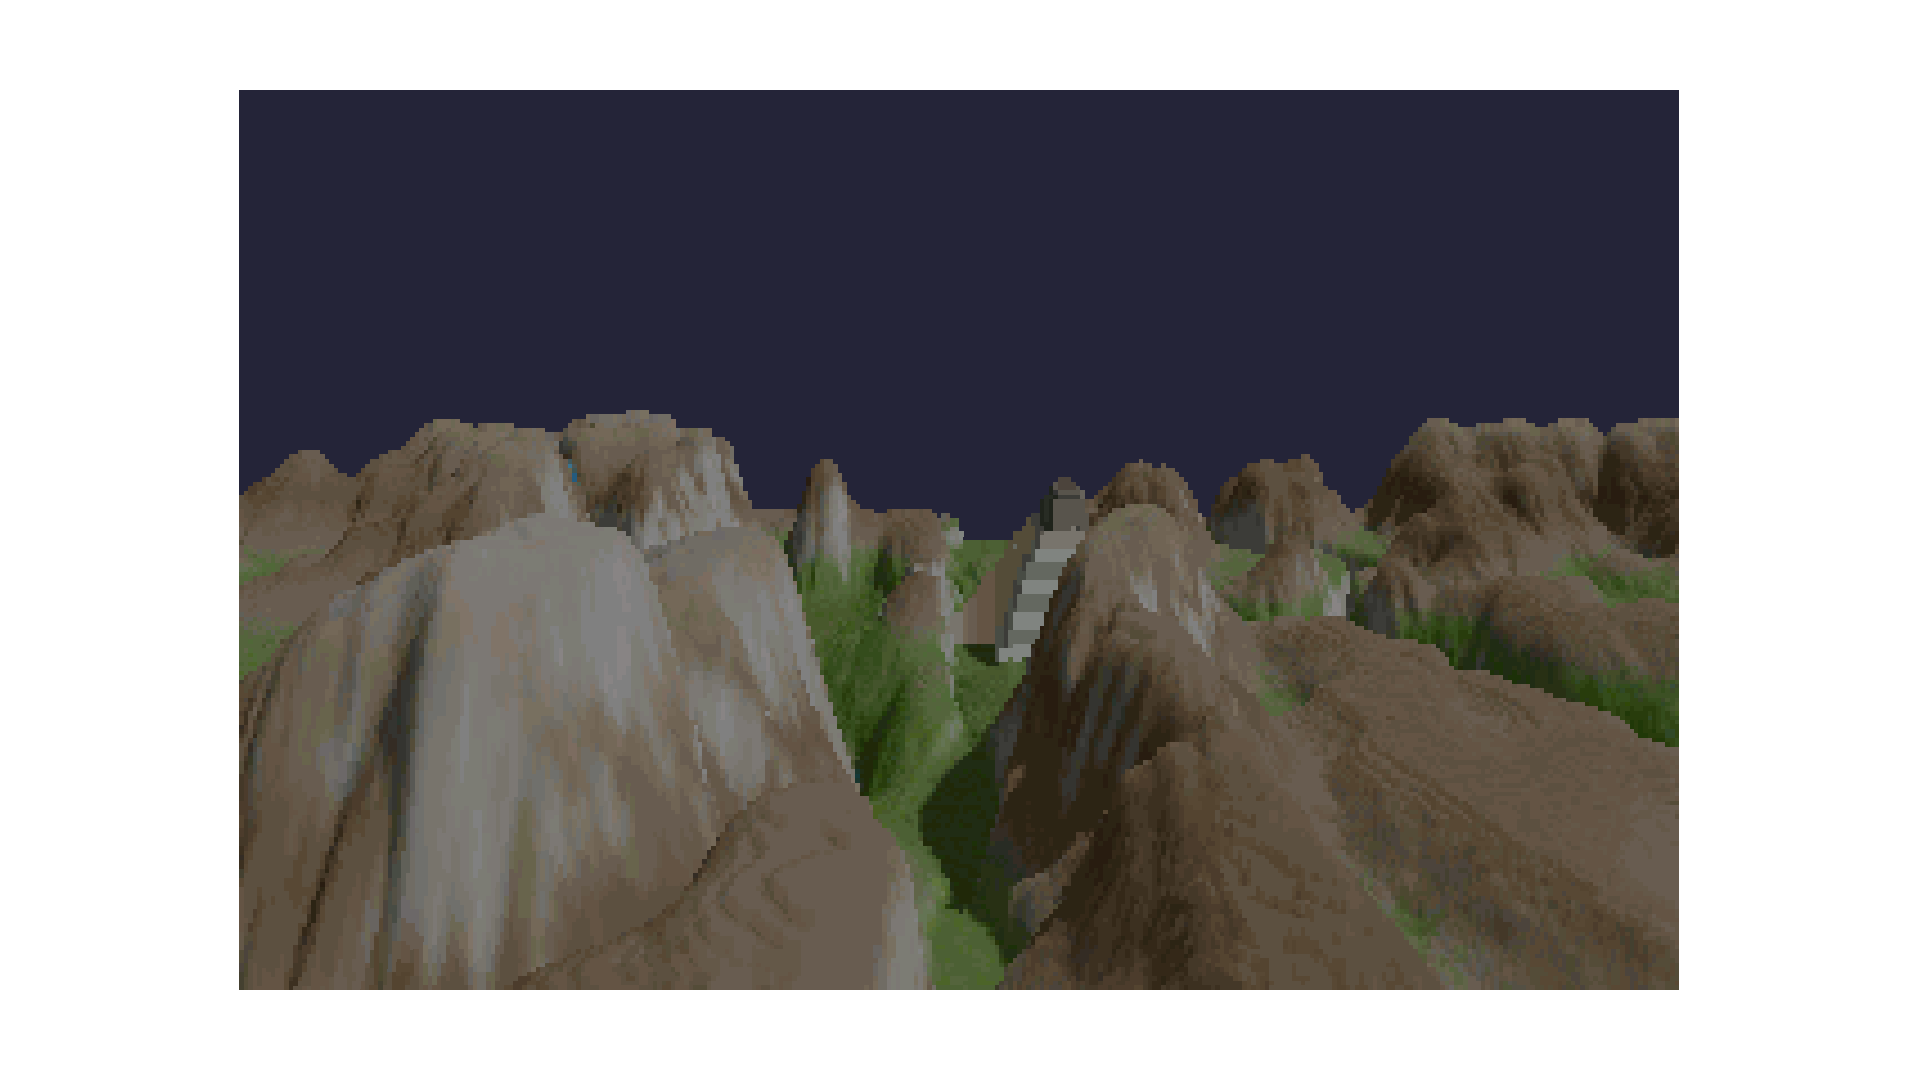
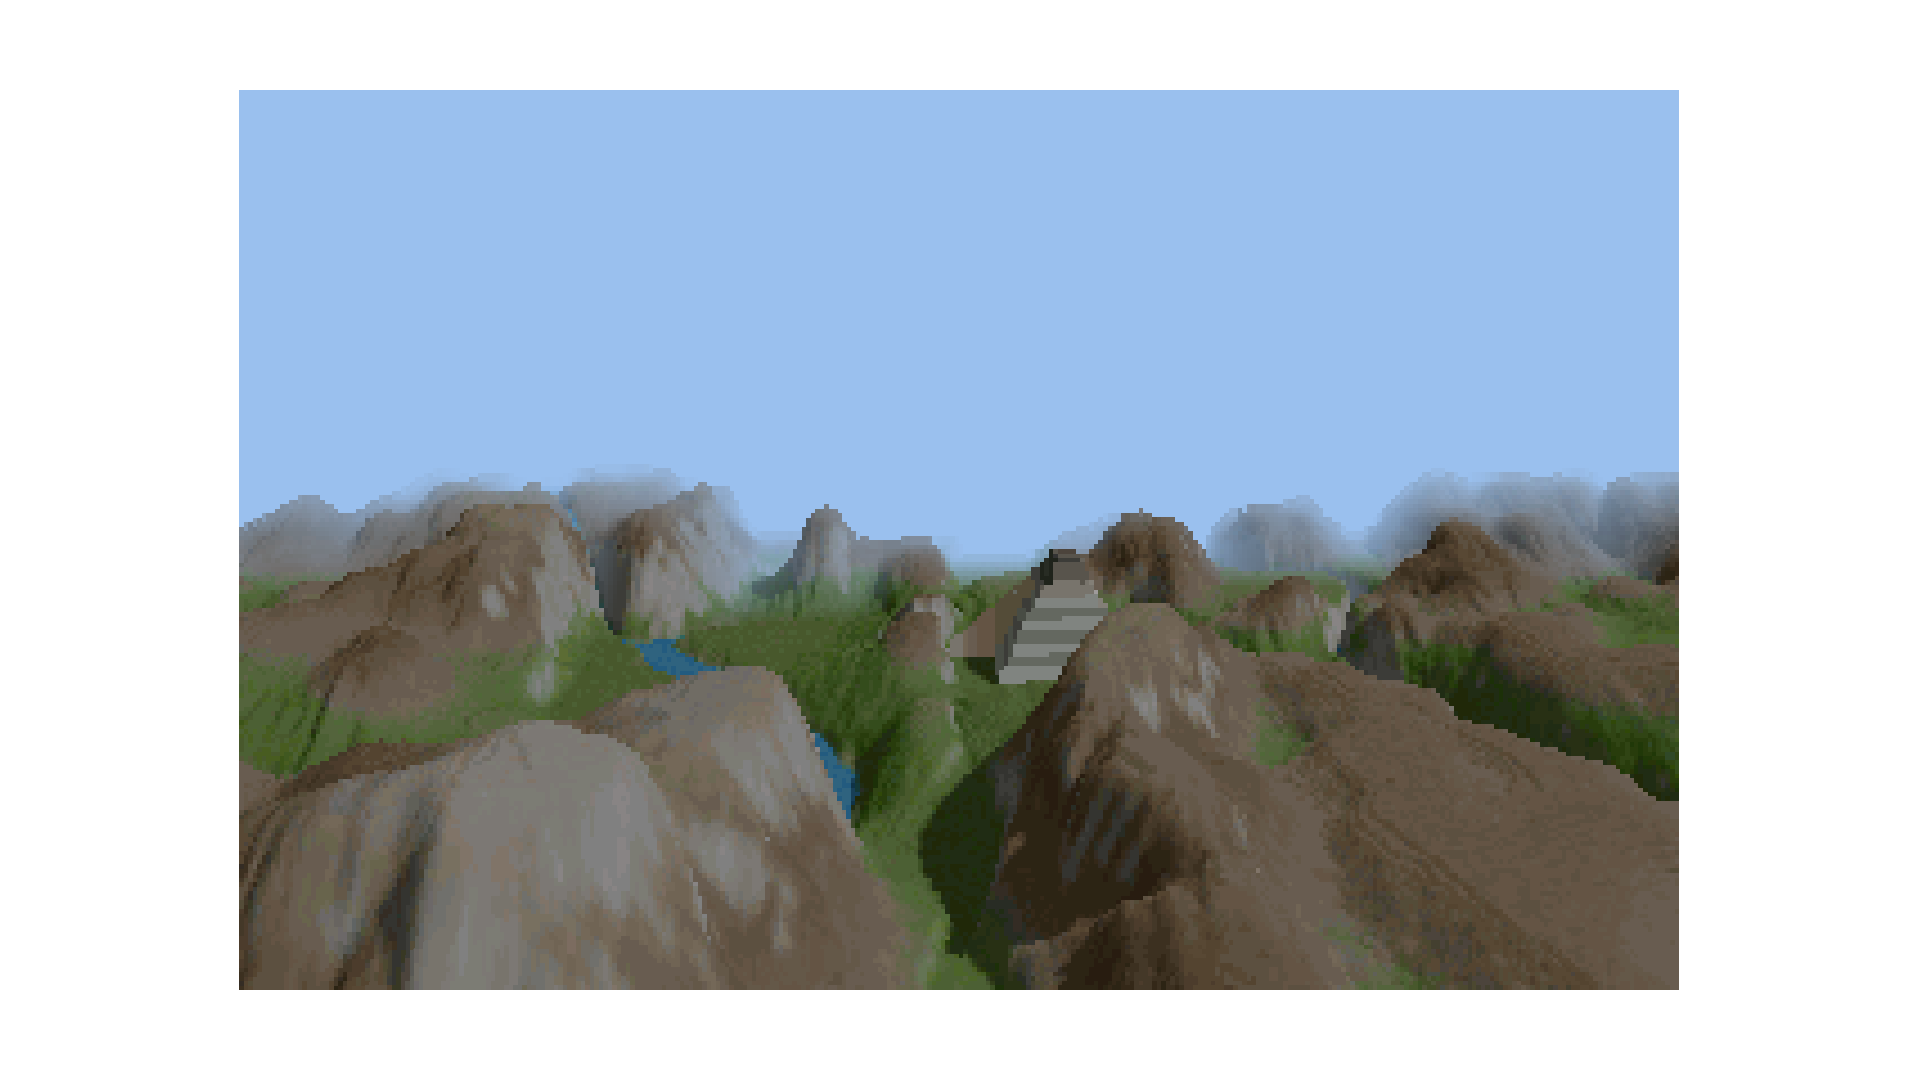
feat: add fog

diff --git a/renderer.py b/renderer.py
@@ -3,16 +3,15 @@ from numba import njit
 import numpy as np
 
 
-from constants import *
 import utils
 
 
 def render(
-    screen_width, screen_height, color_channels, terrain, camera, env_map
+    screen_width, screen_height, color_channels, terrain, camera
 ):
     return render_terrain_jit(
         screen_width, screen_height, color_channels, terrain.height_map,
-        terrain.color_map, env_map, camera.position, camera.theta, camera.z_far,
+        terrain.color_map, camera.position, camera.theta, camera.z_far,
         camera.fov, camera.proj_dist, camera.proj_height, camera.topdown,
         camera.horizon
     )
@@ -21,13 +20,15 @@ def render(
 @njit(fastmath=True)
 def render_terrain_jit(
     screen_width, screen_height, color_channels, height_map,
-    color_map, env_map, position, theta, z_far,
+    color_map, position, theta, z_far,
     fov, proj_dist, proj_height, cam_topdown, horizon
 ):
     # Clear screen
-    screen = np.zeros(
+    screen = np.ones(
         (screen_height, screen_width, color_channels), dtype=np.uint8
     )
+    bg_color = np.array([154, 192, 238], dtype=np.uint8)
+    screen = screen * bg_color
 
     h, w = height_map.shape
     size = min(h, w)
@@ -39,13 +40,7 @@ def render_terrain_jit(
         local_angle = -fov / 2 + current_angle_portion
         current_angle = theta + local_angle
         direction = np.array([cos(current_angle), sin(current_angle)])
-        # Use env map
-        for j in range(screen_height):
-            # Sample env map at (i, j)
-            v = (j + HORIZON - horizon)/ (2 * screen_height)
-            screen[j, i] = utils.sample_tex(
-                current_angle / np.pi, v, env_map
-            )
+
         # The distance between each sample along the ray
         max_projected_height = 0
         for j in range(1, int(z_far)):
@@ -62,6 +57,14 @@ def render_terrain_jit(
             proj_h = int(min(max(proj_h, 0), screen_height - 1))
             if proj_h > max_projected_height:
                 color = color_map[t, s]
+                # For far away pixels add fog by interpolating with background
+                fog_start = 0.8 * z_far    # start fog at 80% of z_far
+                if j > fog_start:
+                    a = color.astype(np.float64) / 255.0
+                    b = bg_color.astype(np.float64) / 255.0
+                    t = (j - fog_start) / (z_far - fog_start)
+                    interp_col = utils.lerp(a, b, t) * 255.0
+                    color = interp_col.astype(np.uint8)
                 # Paint pixels from last max to new height
                 screen[max_projected_height:(proj_h + 1), i] = color
                 max_projected_height = proj_h

diff --git a/app.py b/app.py
@@ -37,12 +37,10 @@ class App(pyglet.window.Window):
         self.push_handlers(self.keys)
         height_img = Image.open("maps/D1.png")
         color_img = Image.open("maps/C1W.png").convert('RGB')
-        env_img = Image.open("maps/env.jpg")
         height_map = (
             np.array(height_img, dtype=np.uint8) / MAX_COLOR_VALUE
         ) * TERRAIN_MAX_HEIGHT
         color_map = np.array(color_img, dtype=np.uint8)
-        self.env_map = np.array(env_img, dtype=np.uint8)
         self.terrain = Terrain(height_map, color_map)
         self.timer = utils.Timer()
         self.fps_display = FPSDisplay(self)
@@ -58,7 +56,7 @@ class App(pyglet.window.Window):
         # self.timer.start()
         self.frame = render(
             FRAME_WIDTH, FRAME_HEIGHT, COLOR_CHANNELS, self.terrain,
-            self.camera, self.env_map
+            self.camera
         )
         # self.timer.stop()
         # print(self.timer)
@@ -67,9 +65,11 @@ class App(pyglet.window.Window):
         if symbol == key.P:
             print(self.camera)
         if symbol == key.C:
+            screenshot_filename = 'docs/screenshot.png'
             pyglet.image.get_buffer_manager().get_color_buffer().save(
-                'docs/screenshot.png'
+                screenshot_filename
             )
+            print(f"Screenshot saved in {screenshot_filename}")
         super(App, self).on_key_press(symbol, modifiers)
 
     def on_draw(self, **kwargs):
@@ -83,4 +83,4 @@ class App(pyglet.window.Window):
             # print(self.timer)
 
             # Debugging
-            self.fps_display.draw()
+            # self.fps_display.draw()

diff --git a/constants.py b/constants.py
@@ -1,12 +1,12 @@
 FRAME_WIDTH = 320
 FRAME_HEIGHT = 200
 COLOR_CHANNELS = 3
-SPEED = 50                   # Speed of the camera moving forward
-STRIFE_SPEED = 30            # Speed of the camera strife
+SPEED = 100                   # Speed of the camera moving forward
+STRIFE_SPEED = 45            # Speed of the camera strife
 VERTICAL_SPEED = 12          # Speed of the camera moving up and down
-TURN_SPEED = 0.25            # Speed of the camera turning left and right
-SENSITIVITY = 30            # Speed of the camera turning up and down
-TERRAIN_MAX_HEIGHT = 150     # Max height in the terrain in world units
+TURN_SPEED = 0.32            # Speed of the camera turning left and right
+SENSITIVITY = 40            # Speed of the camera turning up and down
+TERRAIN_MAX_HEIGHT = 100     # Max height in the terrain in world units
 MAX_COLOR_VALUE = 255
 HORIZON = 143.0
 

diff --git a/camera.py b/camera.py
@@ -10,7 +10,7 @@ class Camera:
         self,
         position=np.array([512.0, 88.0, 512.0]),
         up=np.array([0.0, 1.0, 0.0]),
-        theta=pi/2, z_far=800, fov=90.0, proj_dist=1.0, proj_height=0.35,
+        theta=pi/2, z_far=1000, fov=90.0, proj_dist=1.0, proj_height=0.35,
         horizon=HORIZON
     ):
         """

diff --git a/utils.py b/utils.py
@@ -75,6 +75,11 @@ def normalize(arr):
     return arr / norm
 
 
+@njit
+def lerp(a, b, t):
+    return (1 - t) * a + t * b
+
+
 def humanize_time(secs):
     minutes, secs = divmod(secs, 60)
     hours, minutes = divmod(minutes, 60)

diff --git a/README.md b/README.md
@@ -1,16 +1,20 @@
 # voxel-renderer
 
 A voxel space renderer in Python with pyglet (Comanche style)
+Based in tutorial by Pikuma https://www.youtube.com/watch?v=bQBY9BM9g_Y
 
 ![screenshot](docs/screenshot.png)
+
+![video](docs/voxel-space.gif)
 
 ## Controls
 
 - Move with W, A, S, D
 - Turn with Q, E, and arrow keys
 - Elevate up and down with R, F
+- Close with ESC
 
-## To do:
+## Usage
 
-- Sky
-- Fog
+- Install dependencies with: `$ python -m pip install -r requirements.txt`
+- Run main program: `$ python main.py`
